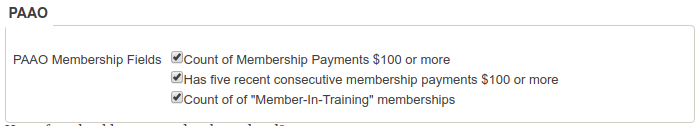
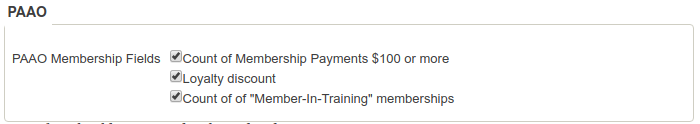
Updated screenshot and README.

diff --git a/README.md b/README.md
@@ -5,7 +5,7 @@
 Extends the Summary Fields extension by adding three fields relevant to PAAO:
 
 * Count of Membership Payments $100 or more
-* Has five recent consecutive membership payments $100 or more
+* Loyalty discount 
 * Count of of "Member-In-Training" memberships
 
 The extension is licensed under [GPL-3.0](LICENSE.txt).
